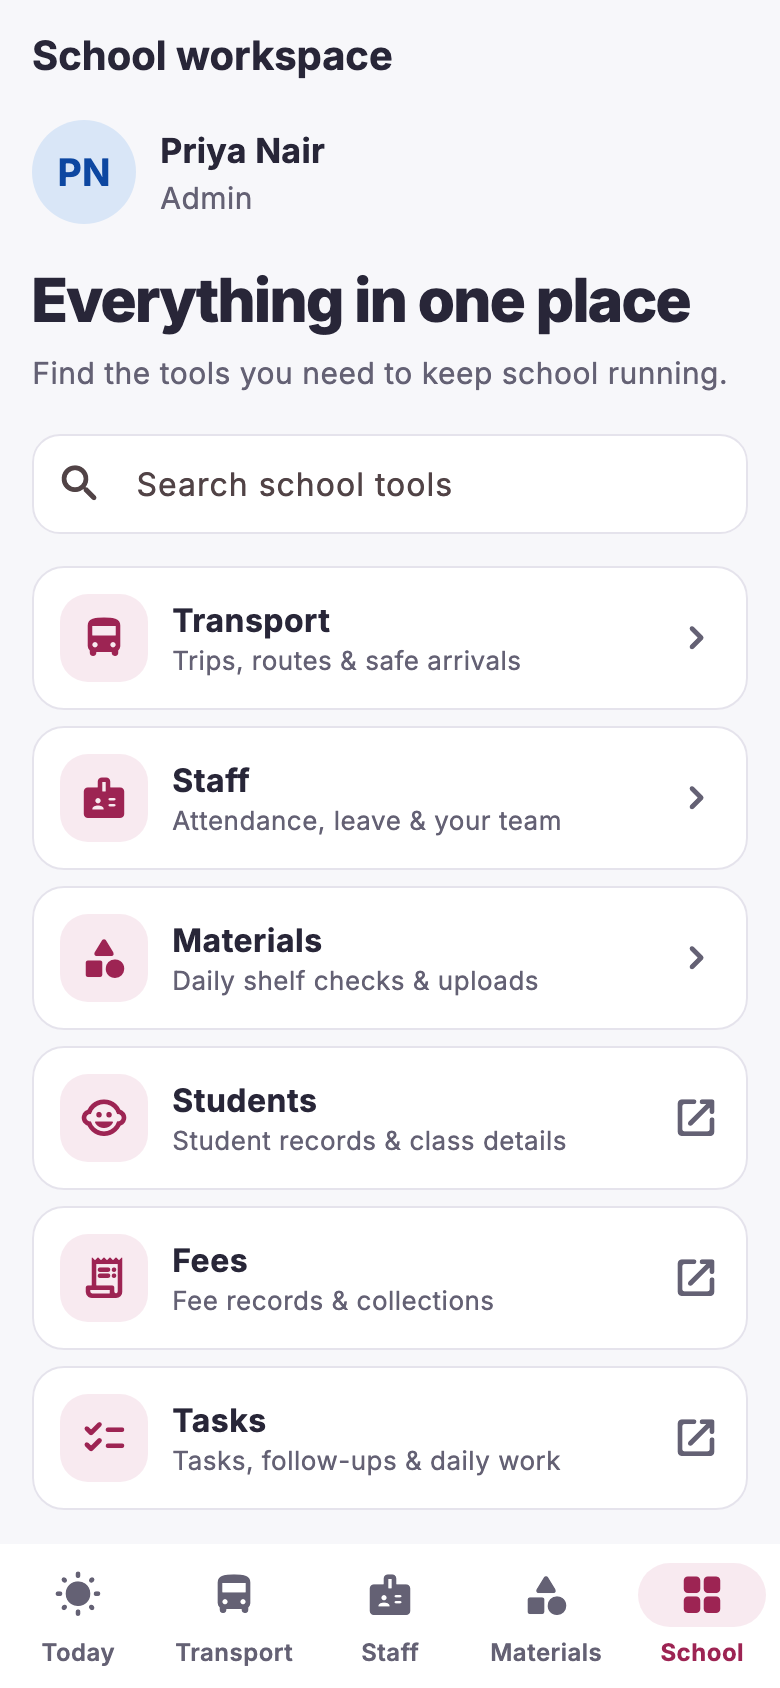
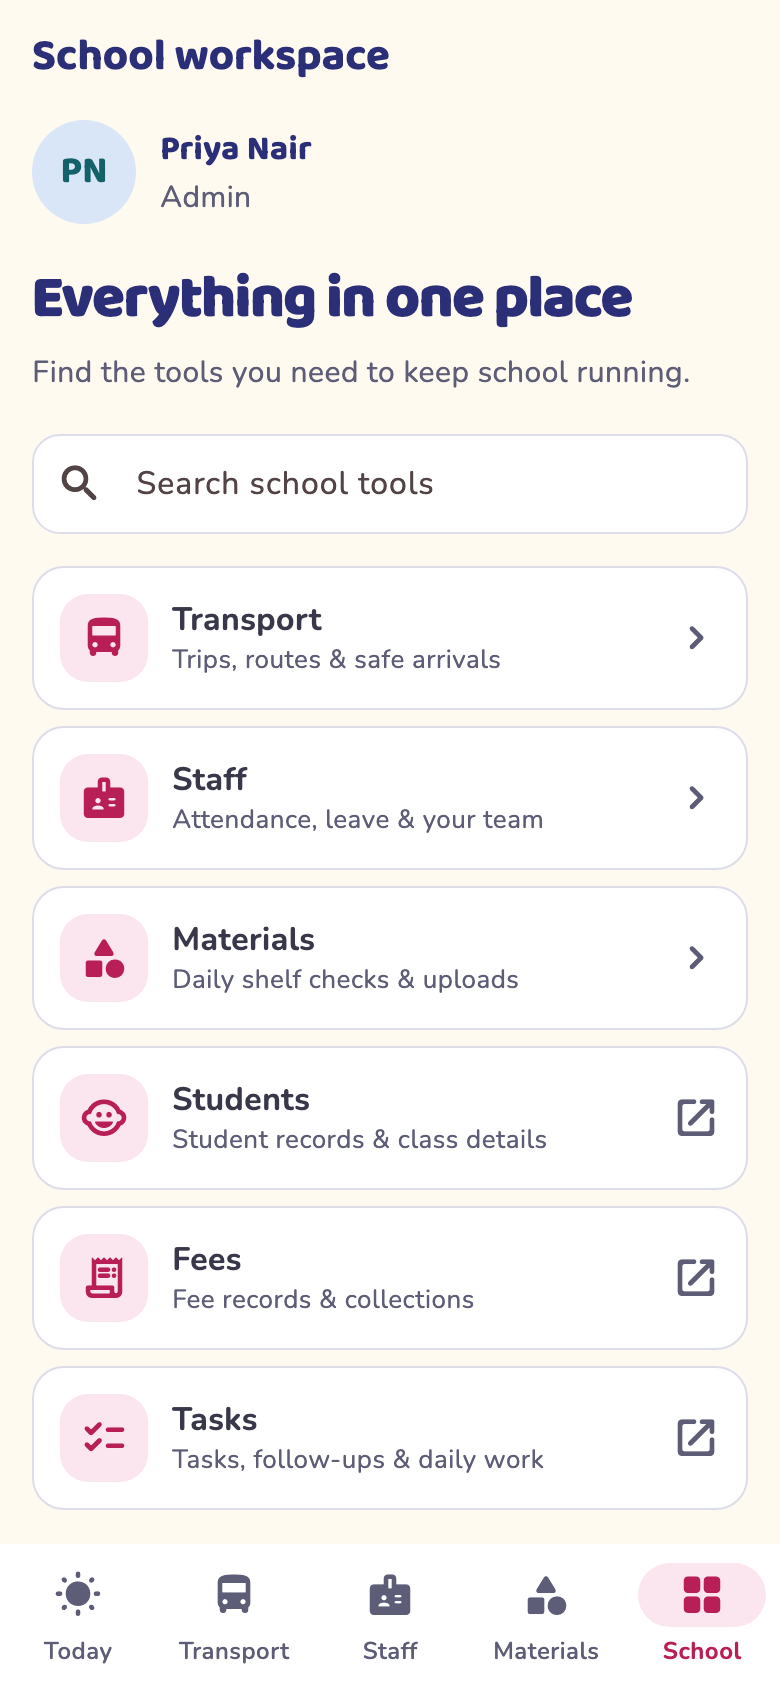
Refresh branded phone and tablet previews

diff --git a/test/operations_design_test.dart b/test/operations_design_test.dart
@@ -114,6 +114,13 @@ Widget _app({double scale = 1, bool failStaff = false}) {
 
 Future<void> _capture(WidgetTester tester, String name) async {
   if (!const bool.fromEnvironment('LG_DESIGN_PREVIEWS')) return;
+  await tester.runAsync(
+    () => precacheImage(
+      const AssetImage('assets/brand/logo.png'),
+      tester.element(find.byType(AppShell)),
+    ),
+  );
+  await tester.pumpAndSettle();
   final boundary = tester.firstRenderObject<RenderRepaintBoundary>(
     find.byKey(const Key('preview')),
   );

diff --git a/lib/features/home/home_screen.dart b/lib/features/home/home_screen.dart
@@ -192,7 +192,7 @@ class _TodayScreenState extends State<TodayScreen> {
             Container(
               padding: const EdgeInsets.all(24),
               decoration: BoxDecoration(
-                color: LgColors.ink,
+                color: LgColors.indigo,
                 borderRadius: BorderRadius.circular(24),
               ),
               child: Column(

diff --git a/docs/previews/README.md b/docs/previews/README.md
@@ -12,6 +12,6 @@ Regenerate from the repository root:
 flutter test --no-pub test/operations_design_test.dart --dart-define=LG_DESIGN_PREVIEWS=true
 ```
 
-Validation: Flutter 3.47.8, Dart 3.13.7. All 39 tests pass; `flutter analyze --no-pub` reports no issues. Layout tests cover 375px phone width, landscape, tablet, and desktop at 2× text size with reduced motion. Existing privacy, transport API, and offline materials queue tests remain green. The lockfile includes four test/SDK dependency changes required by this Flutter version.
+Validation: Flutter 3.47.8, Dart 3.13.7. All 42 tests pass; `flutter analyze --no-pub` reports no issues. Layout tests cover 375px phone width, landscape, tablet, and desktop at 2× text size with reduced motion. Existing privacy, transport API, and offline materials queue tests remain green. The lockfile includes four test/SDK dependency changes required by this Flutter version.
 
-This change updates the native app. Tools that open external MTT website pages retain their existing website UI. Light mode is the app's only exposed theme. Device-level GPS/background upload behavior and authenticated production data have not been exercised in these widget tests.
+These previews use the official website logo, cream/indigo/pink palette, Nunito body text and Baloo 2 headings. Other school tools now open in an authenticated app workspace with matching branding. Light mode is the app's only exposed theme. Device-level GPS/background upload behavior and authenticated production data have not been exercised in these widget tests.
